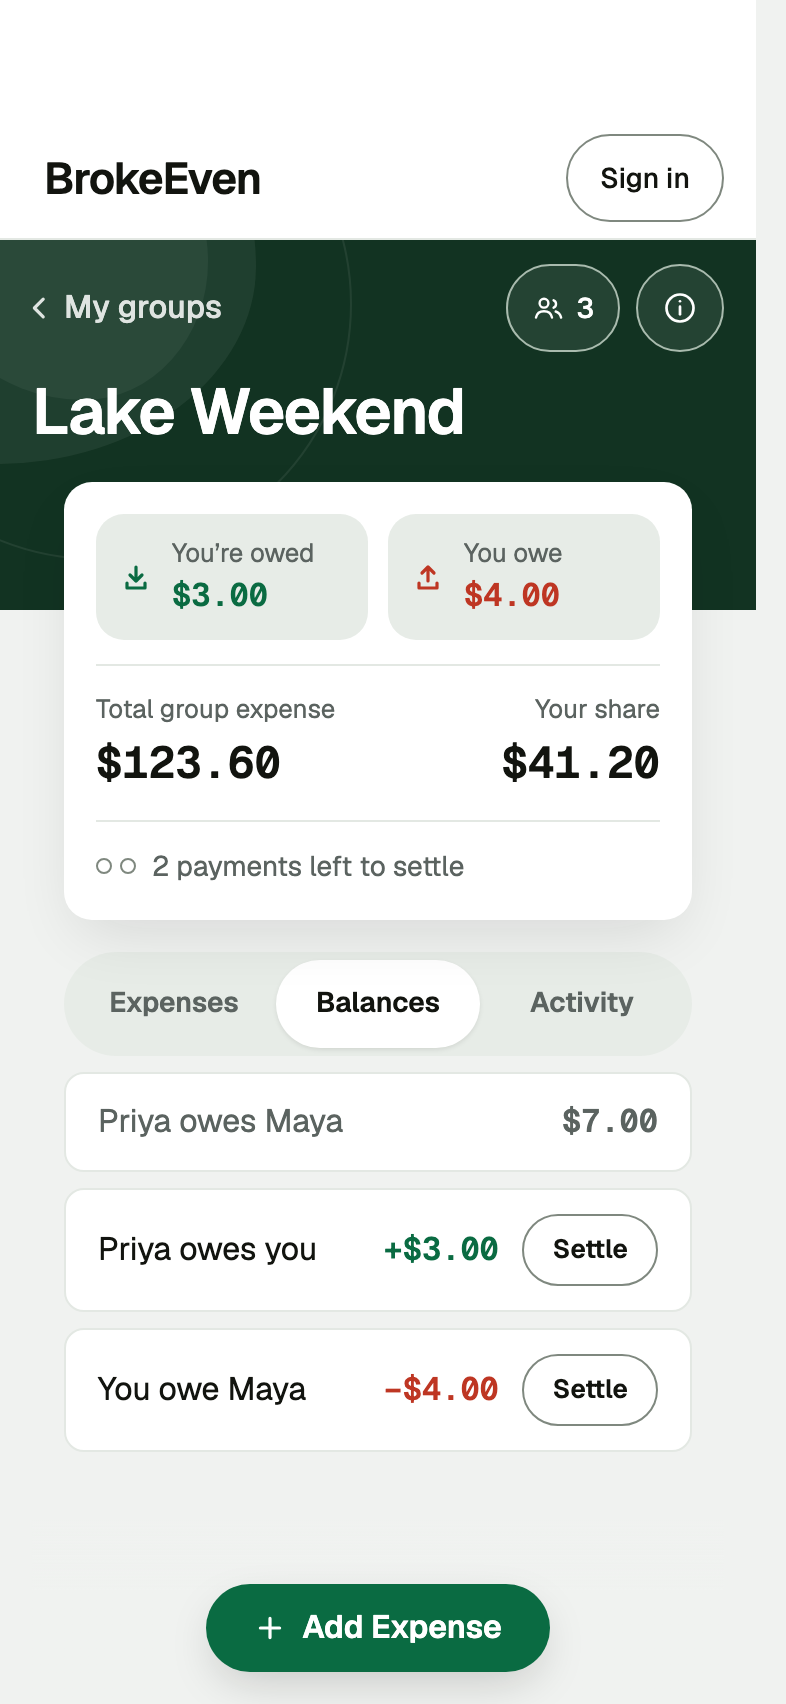
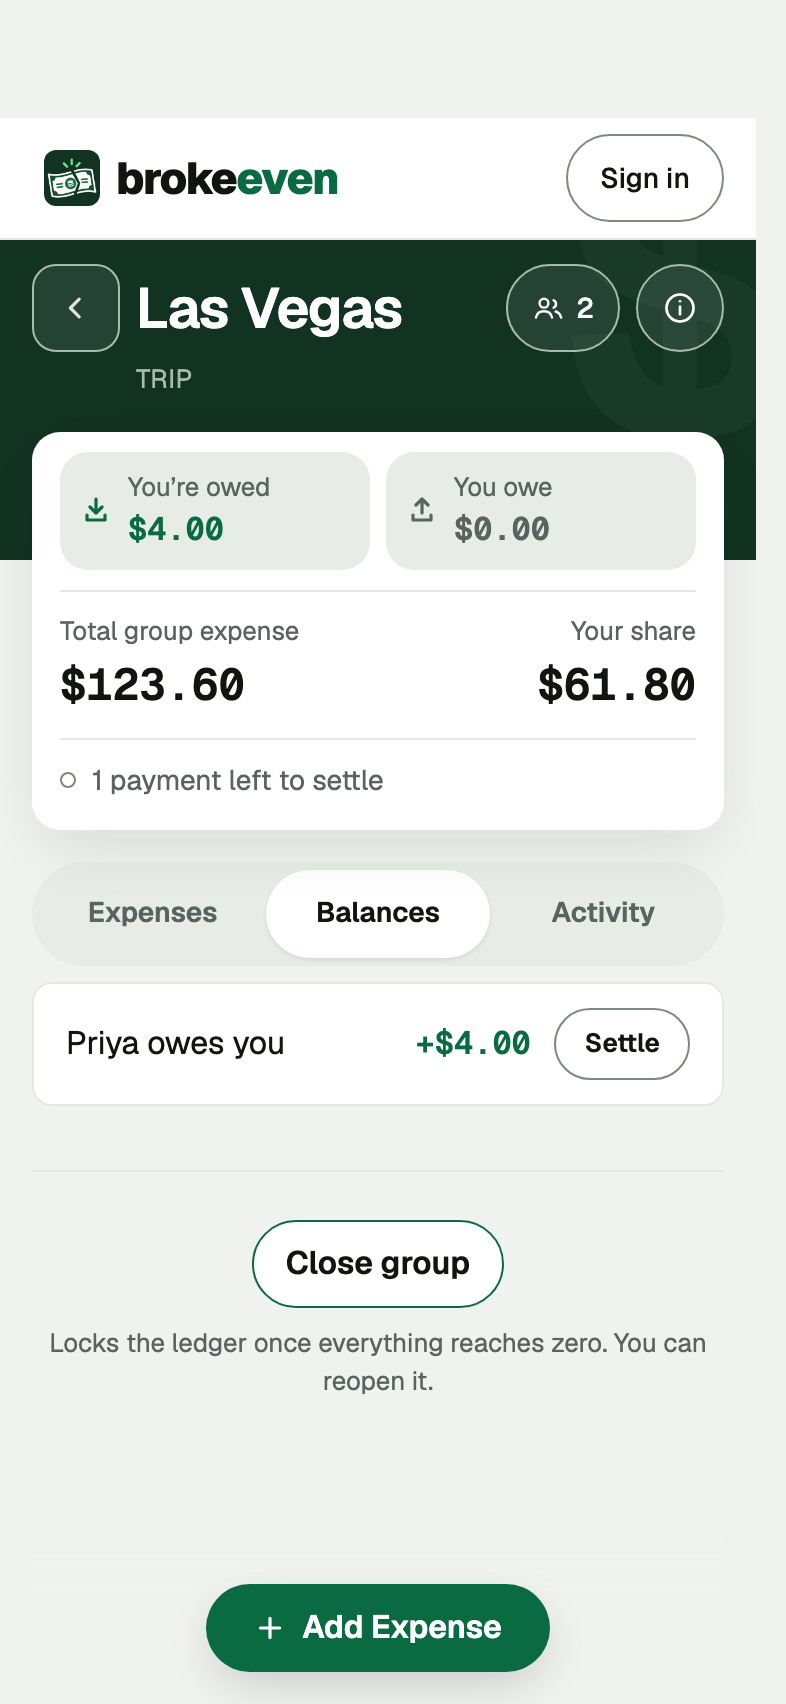
fix(web): regenerate stale group-preview screenshot
- old image predates the brand logo rollout, captured against
  a stale UI (no settle-mode toggle, generic "BrokeEven" wordmark)
- new capture adds a 59px top spacer matching a real iPhone's
  Dynamic Island safe-area-inset, so PhoneFrame's drawn notch
  sits over blank space instead of the navbar
- update alt text to match the new dummy data (2-person split,
  $61.80 share, one $4 settle-up left)
- ignore docs/cutover-playbook.md

diff --git a/apps/web/src/features/home/HomePage.tsx b/apps/web/src/features/home/HomePage.tsx
@@ -197,7 +197,7 @@ export function HomePage() {
         <PhoneFrame>
           <img
             src="/group-preview.png"
-            alt="A whole phone screen of a real group mid-trip: $123.60 spent, your share $41.20, two payments left to settle, and a four dollar debt with a Settle button next to it."
+            alt="A whole phone screen of a real group mid-trip: $123.60 spent, your share $61.80, one payment left to settle: a four dollar debt with a Settle button next to it."
             width={786}
             height={1704}
             loading="lazy"
